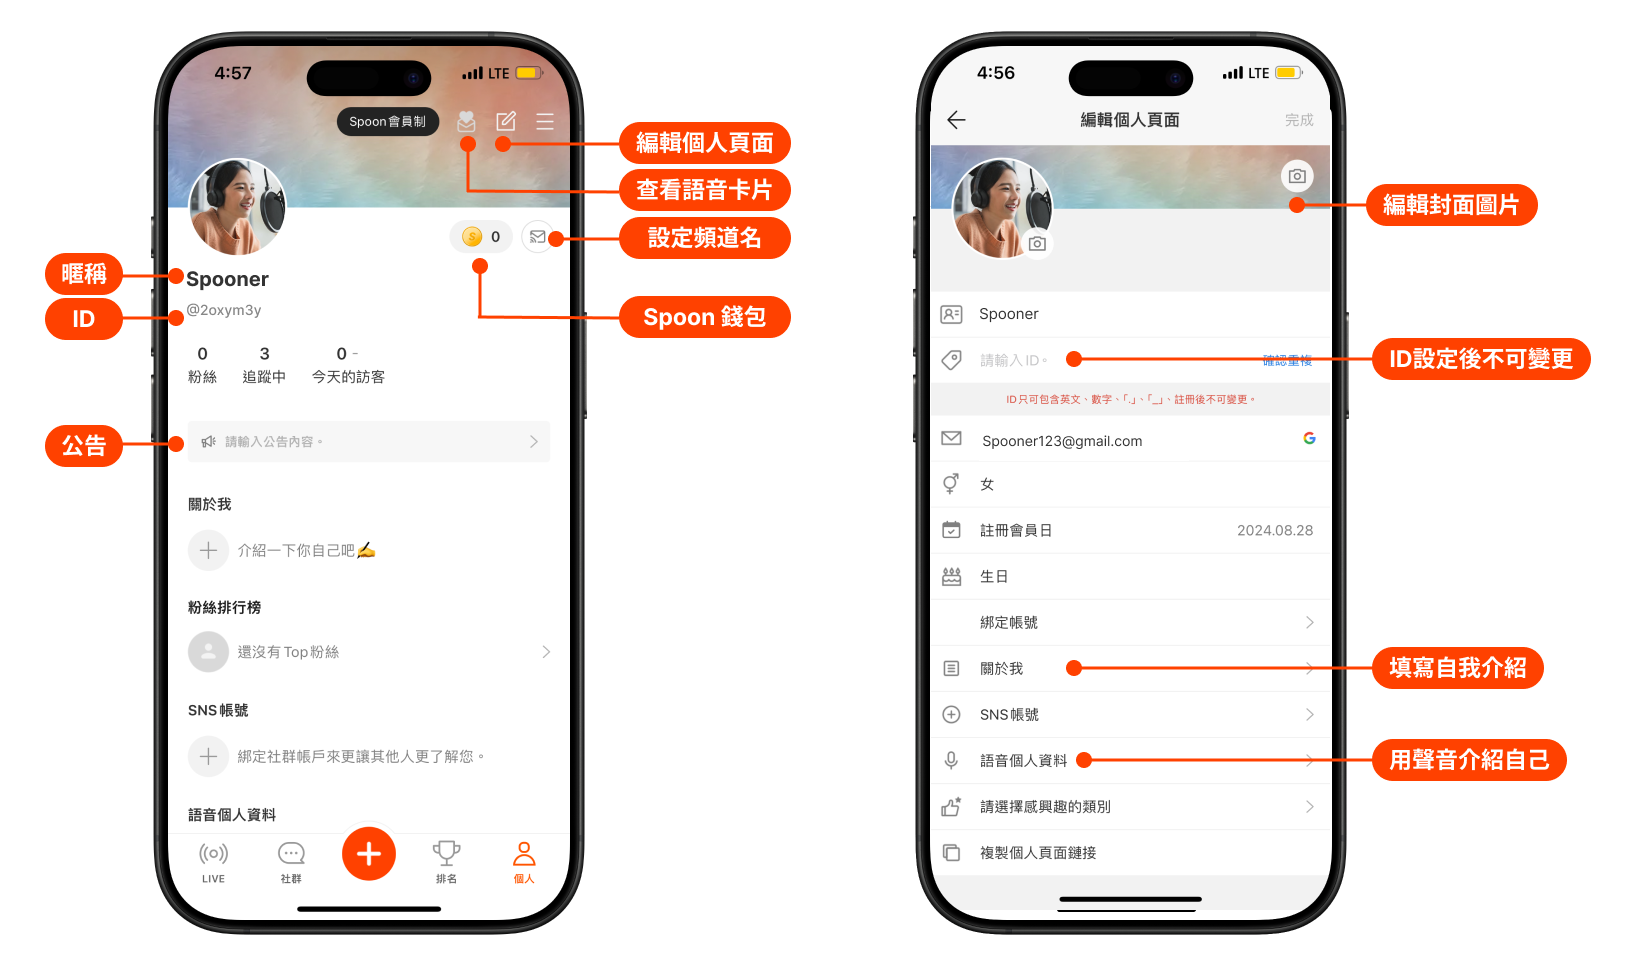
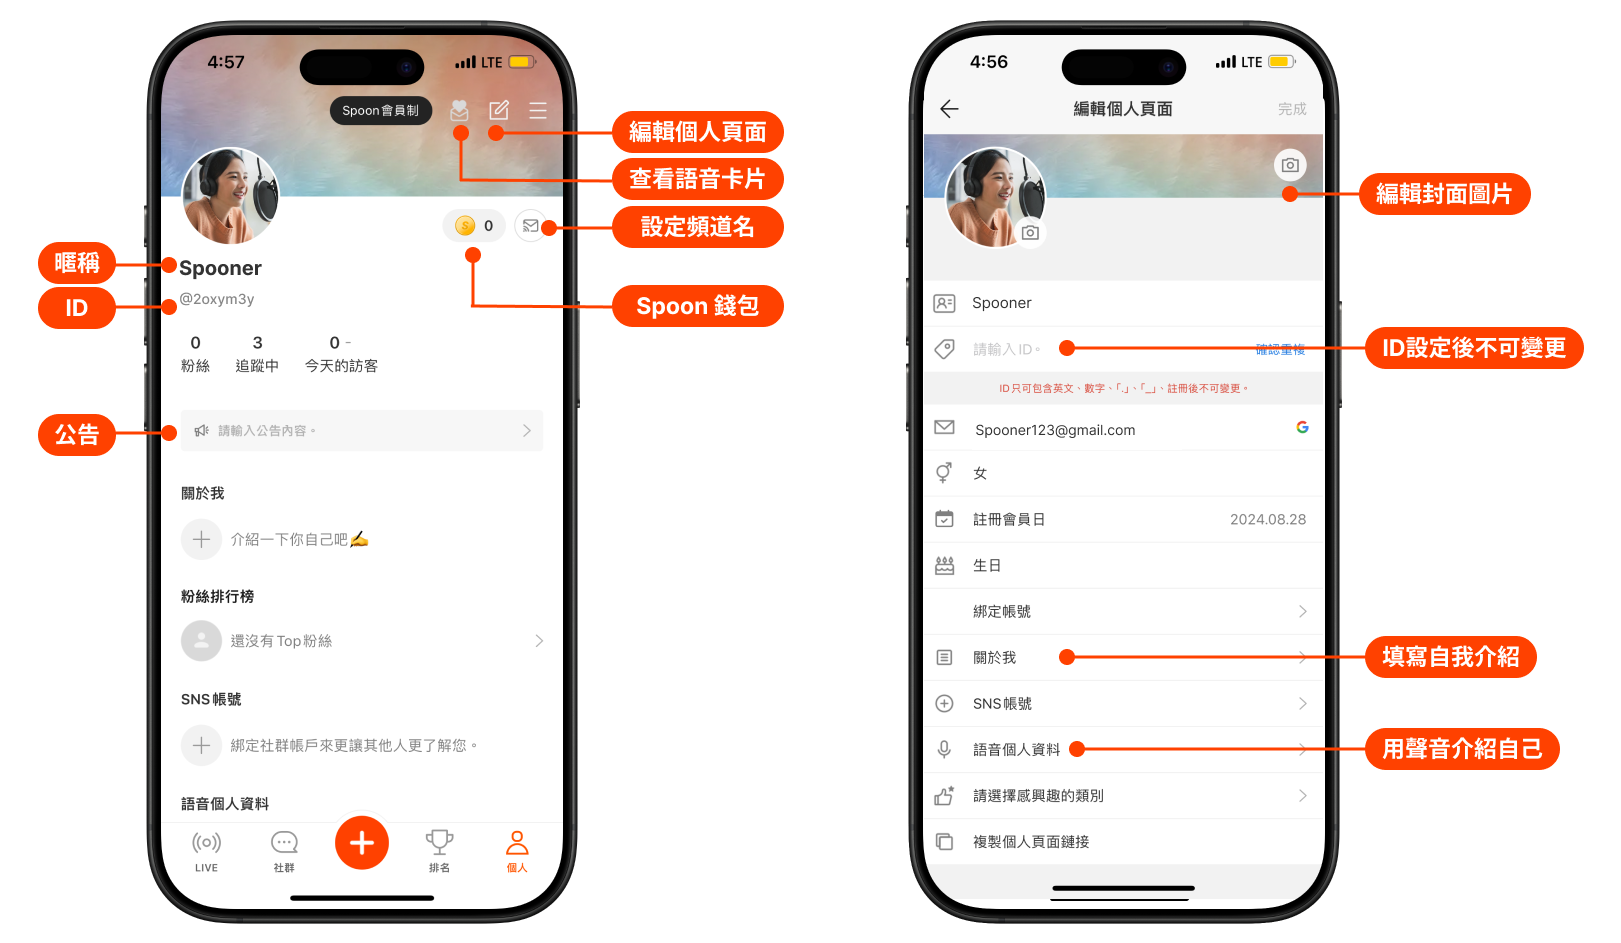
modify post image

Changed region(s): [[0.0, 0.0, 0.4935, 0.9841], [0.5552, 0.0, 0.987, 0.9841]]

diff --git a/blog/test/index.html b/blog/test/index.html
@@ -167,7 +167,7 @@
 <h3 id="3-張貼公告"><strong>3. 張貼公告</strong></h3>
 <p>點擊“請輸入公告內容”來向聽眾們發佈公告內容吧！</p>
 <p>發佈新公告時有開啟通知的粉絲們會發送通知（修改公告時不會收到通知）</p>
-<p><img src="/images/post/TW_auther_4.webp" alt=""></p>
+<p><img src="/images/post/guideline_ch1_post2.png" alt=""></p>
 
         </div>
 
